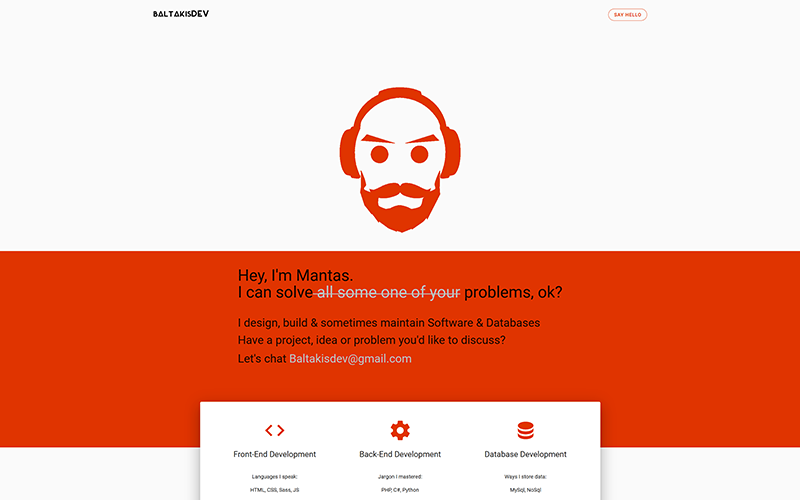
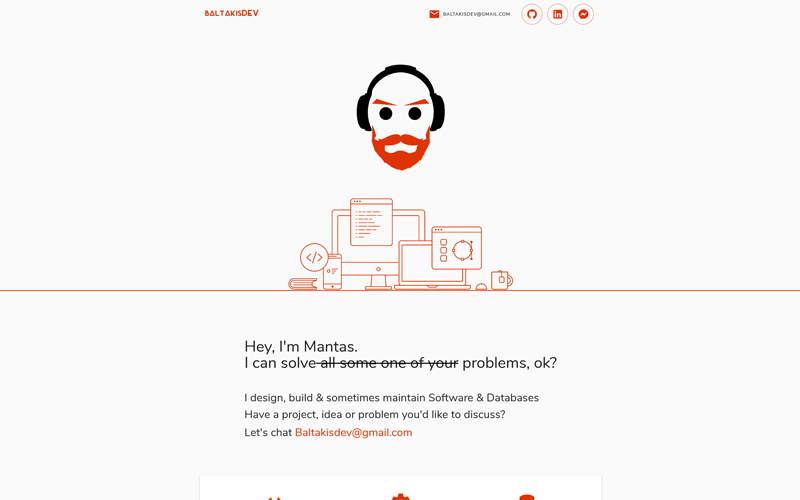
Final touch, adjusted responsiveness

diff --git a/src/views/Home.vue b/src/views/Home.vue
@@ -13,9 +13,9 @@
       </div>
     </v-row>
     <!-- Header introduction section -->
-    <v-row align="center" justify="center" class="py-12 px-5 introduction-row">
+    <v-row align="center" justify="center" class="py-md-12 px-5 introduction-row">
         <div class="introduction px-3" >
-          <div class="display-2 pb-12">
+          <div class="display-2 pb-3 pb-md-12">
             <p><span class="introduction-title">Hey, I'm Mantas.</span><br/>
               <span class="introduction-content">
                 <span>I can solve</span>
@@ -28,10 +28,10 @@
               </span>
             </p>
           </div>
-          <div class="introduction-content display-1">
-            <span>I design, build & sometimes maintain Software & Databases</span>
-            <p class="mt-3">Have a project, idea or problem you'd like to discuss?</p>
-            <span>Let's chat <a color="primary" href="mailto:Baltakisdev@gmail.com">Baltakisdev@gmail.com</a></span>
+          <div class="display-1">
+            <span class="introduction-content">I design, build & sometimes maintain Software & Databases</span>
+            <p class="mt-3 introduction-content">Have a project, idea or problem you'd like to discuss?</p>
+            <span class="introduction-content">Let's chat <a color="primary" href="mailto:Baltakisdev@gmail.com">Baltakisdev@gmail.com</a></span>
           </div>
         </div>
     </v-row>
@@ -74,8 +74,8 @@
           <v-col cols="12" md="6" lg="4" v-for="project in projects" :key="project.title" class="project">
             <v-hover>
               <template v-slot:default="{ hover }">
-                <v-card class="mx-auto" max-width="400">
-                  <v-img :src="require('../assets/Work/'+ project.title +'.png')" max-height="250px" ></v-img>
+                <v-card>
+                  <v-img :src="require('../assets/Work/'+ project.title +'.png')" aspect-ratio="1.6" contain></v-img>
                   <v-fade-transition>
                         <v-overlay class="work px-8" v-if="hover" align="center" absolute color="primary" opacity="0.8">
                           <p class="subheading">{{project.title}}</p>
@@ -103,7 +103,6 @@
 export default {
   data() {
     return {
-      isActive: false,
       skills: [
         { 
           icon: 'mdi-code-tags',
@@ -226,14 +225,7 @@ export default {
         },
       ],
     }
-  },
-  methods: {
-    crossOut() {
-    setTimeout(function(){
-      isActive = true;
-    }, 2000);
-    } 
-  },
+  }
   
 }
 </script>
@@ -268,6 +260,45 @@ export default {
  .project-chip{
    pointer-events:none;
  }
+
+ /* Media Queries */
+ @media only screen and (max-width: 960px) {
+   .skill {
+     border-bottom: 1px solid #BDBDBD;
+   }
+   .headerLogo {
+     max-height: 280px !important;
+     max-width: 240px !important;
+   }
+   .home {
+     margin-top: 20px;
+   }
+  .introduction{
+    padding: 40px 0 200px 0;
+  }
+   .headerLogo {
+     height:300px;
+     width: 250px;
+   }
+   .header-top-image{
+     width:350px;
+   }
+   .introduction-title {
+     font-size: 50px !important;
+  }
+  .introduction-content {
+    font-size: 34px !important;
+  }
+ }
+@media only screen and (max-width: 600px) {
+.introduction-title {
+font-size: 40px !important;
+}
+.introduction-content {
+font-size: 24px !important;
+}
+}
+
  /* Animations */
 
 
@@ -331,35 +362,5 @@ export default {
   -webkit-animation-delay: 2.4s;
   -moz-animation-delay: 2.4s;
   animation-delay: 2.4s;
-}
- /* Media Queries */
- @media only screen and (max-width: 960px) {
-   .skill {
-     border-bottom: 1px solid #BDBDBD;
-   }
-   .home {
-     margin-top: 20px;
-   }
-   .headerLogo {
-     height:300px;
-     width: 250px;
-   }
-   .header-top-image{
-     width:350px;
-   }
-   .introduction-title {
-     font-size: 50px !important;
-  }
-  .introduction-content {
-    font-size: 34px !important;
-  }
- }
-@media only screen and (max-width: 600px) {
-.introduction-title {
-font-size: 40px !important;
-}
-.introduction-content {
-font-size: 24px !important;
-}
 }
  </style>

diff --git a/src/components/BottomNavbar.vue b/src/components/BottomNavbar.vue
@@ -1,7 +1,7 @@
 <template>
     <v-row align="center" justify="center" class="white--text primary mt-12 py-12">
         <v-col cols="10" md="10" lg="9" xl="6">
-                    <h2 class="display-1 text-center">Say Hello</h2><br/>
+                    <h2 class="display-1 text-center">Contact Me</h2><br/>
                     <div class="BottonNavSocial" align="center">
                         <v-btn class="mx-2 mb-6 mb-md-0" dark large color="primary" depressed>
                             <v-icon large>mdi-email</v-icon>
